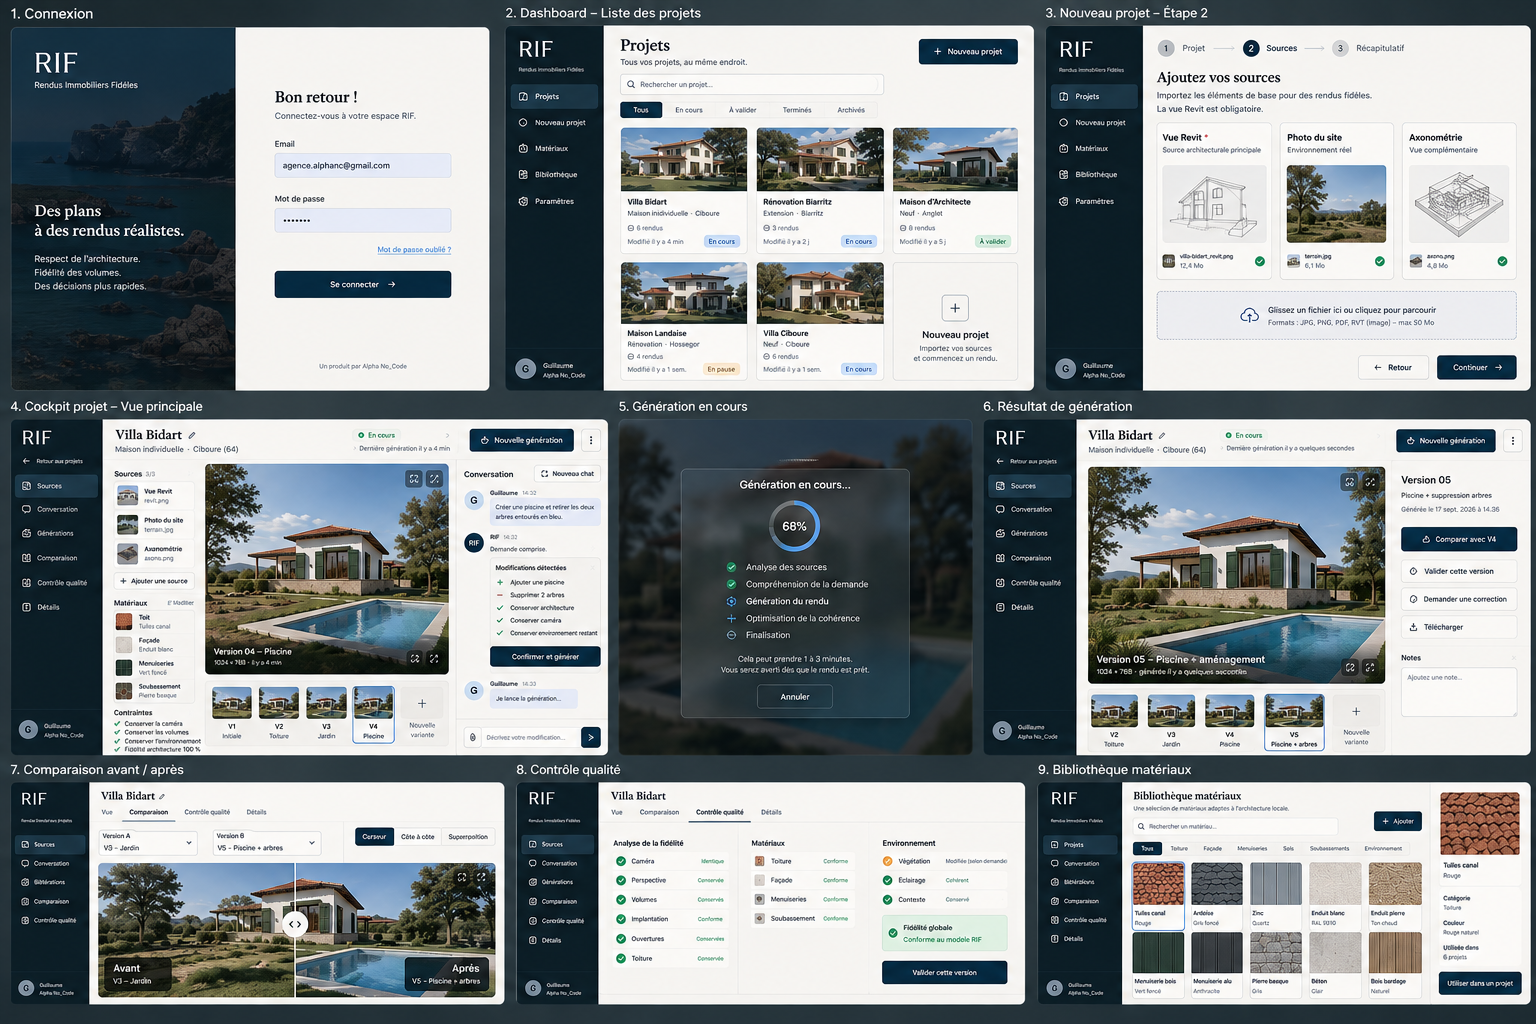
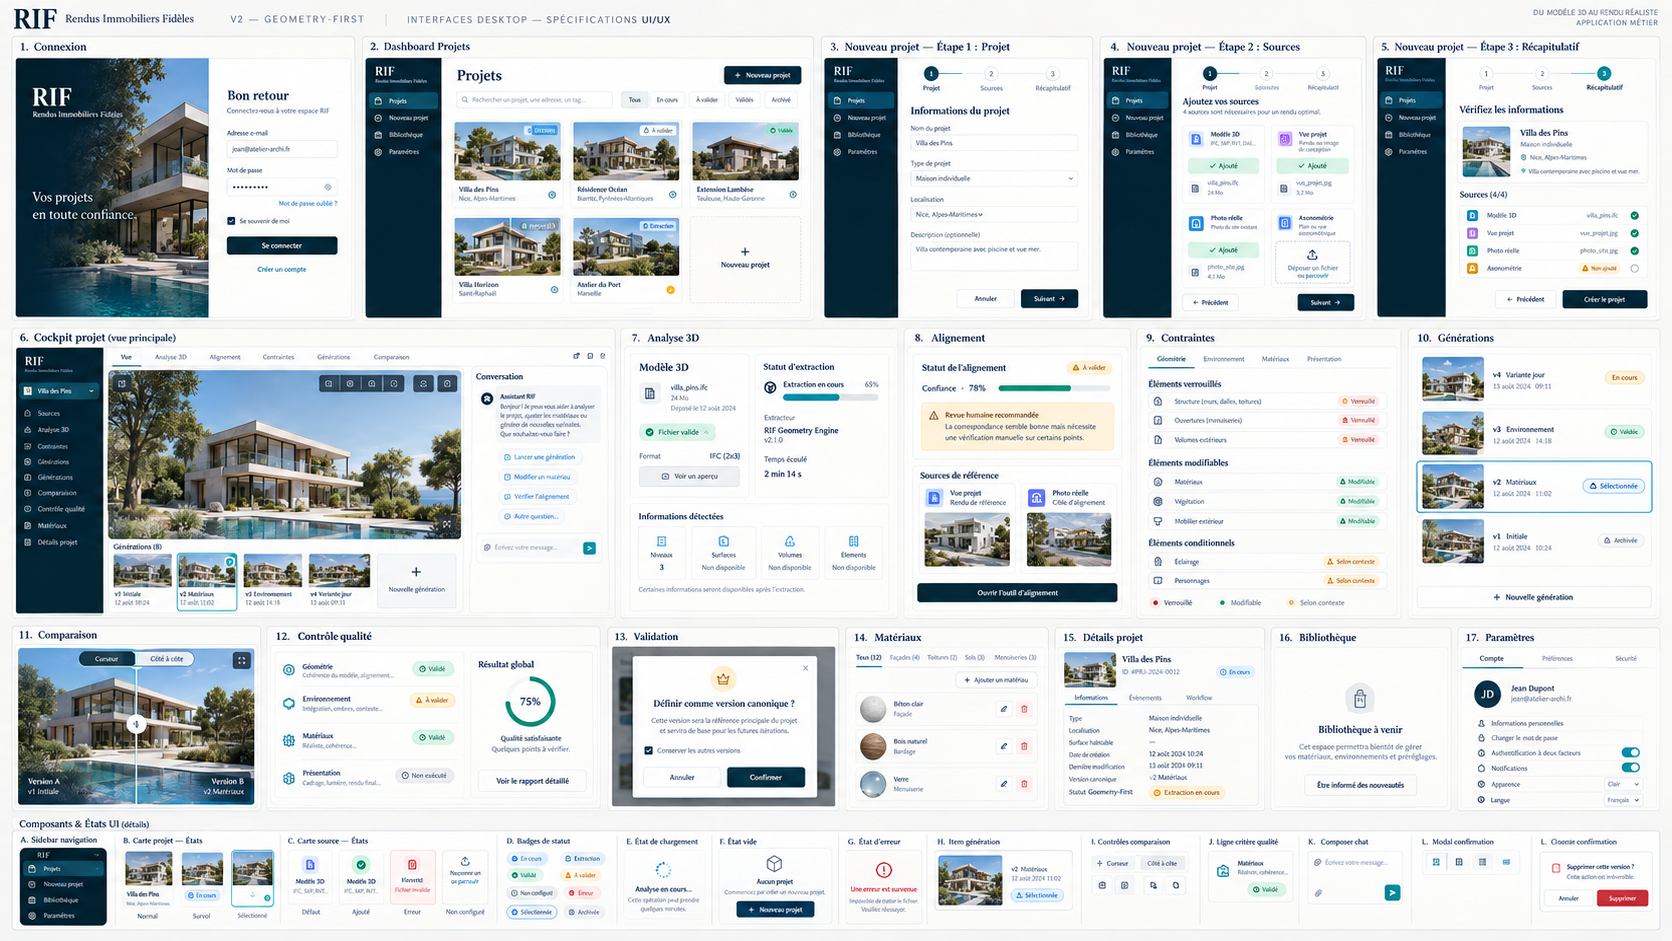
fix(frontend): stabilize login and update RIF UI reference

diff --git a/lib/auth/connexion-page.test.ts b/lib/auth/connexion-page.test.ts
@@ -1,0 +1,109 @@
+import React, { act } from 'react'
+import { createRoot, type Root } from 'react-dom/client'
+import { afterEach, beforeEach, describe, expect, it, vi } from 'vitest'
+
+const { connexionEmail, push, refresh } = vi.hoisted(() => ({
+  connexionEmail: vi.fn(),
+  push: vi.fn(),
+  refresh: vi.fn(),
+}))
+
+vi.mock('@/lib/auth/client', () => ({
+  authClient: { signIn: { email: connexionEmail } },
+}))
+
+vi.mock('next/navigation', () => ({
+  useRouter: () => ({ push, refresh }),
+  useSearchParams: () => new URLSearchParams(),
+}))
+
+import PageConnexion from '@/app/connexion/page'
+
+describe('formulaire de connexion', () => {
+  let conteneur: HTMLDivElement
+  let racine: Root
+
+  beforeEach(async () => {
+    connexionEmail.mockReset()
+    push.mockReset()
+    refresh.mockReset()
+    conteneur = document.createElement('div')
+    document.body.appendChild(conteneur)
+    racine = createRoot(conteneur)
+
+    await act(async () => {
+      racine.render(React.createElement(PageConnexion))
+    })
+  })
+
+  afterEach(async () => {
+    await act(async () => racine.unmount())
+    conteneur.remove()
+  })
+
+  it("réactive le bouton et affiche une erreur quand Neon Auth lève une exception", async () => {
+    connexionEmail.mockRejectedValueOnce(new Error('Invalid email or password'))
+
+    const champs = conteneur.querySelectorAll('input')
+    await act(async () => {
+      changerValeur(champs[0], 'diagnostic@example.invalid')
+      changerValeur(champs[1], 'mot-de-passe-invalide')
+    })
+
+    const formulaire = conteneur.querySelector('form')!
+    await act(async () => {
+      formulaire.dispatchEvent(new Event('submit', { bubbles: true, cancelable: true }))
+    })
+
+    const bouton = conteneur.querySelector('button[type="submit"]') as HTMLButtonElement
+    expect(bouton.disabled).toBe(false)
+    expect(bouton.textContent).toContain('Se connecter')
+    expect(conteneur.querySelector('[role="alert"]')?.textContent).toContain('Identifiants incorrects.')
+    expect(push).not.toHaveBeenCalled()
+  })
+
+  it("affiche aussi l'erreur quand Neon Auth la renvoie dans le résultat", async () => {
+    connexionEmail.mockResolvedValueOnce({ error: { message: 'Invalid email or password' } })
+
+    const champs = conteneur.querySelectorAll('input')
+    await act(async () => {
+      changerValeur(champs[0], 'diagnostic@example.invalid')
+      changerValeur(champs[1], 'mot-de-passe-invalide')
+    })
+
+    await act(async () => {
+      conteneur.querySelector('form')!.dispatchEvent(new Event('submit', { bubbles: true, cancelable: true }))
+    })
+
+    expect(conteneur.querySelector('[role="alert"]')?.textContent).toContain('Identifiants incorrects.')
+    expect(push).not.toHaveBeenCalled()
+  })
+
+  it('redirige vers le tableau de bord quand Neon Auth accepte les identifiants', async () => {
+    connexionEmail.mockResolvedValueOnce({ error: null })
+
+    const champs = conteneur.querySelectorAll('input')
+    await act(async () => {
+      changerValeur(champs[0], 'architecte@example.test')
+      changerValeur(champs[1], 'mot-de-passe-valide')
+    })
+
+    await act(async () => {
+      conteneur.querySelector('form')!.dispatchEvent(new Event('submit', { bubbles: true, cancelable: true }))
+    })
+
+    expect(connexionEmail).toHaveBeenCalledWith({
+      email: 'architecte@example.test',
+      password: 'mot-de-passe-valide',
+    })
+    expect(push).toHaveBeenCalledWith('/')
+    expect(refresh).toHaveBeenCalledOnce()
+  })
+})
+
+function changerValeur(champ: Element, valeur: string) {
+  const setter = Object.getOwnPropertyDescriptor(HTMLInputElement.prototype, 'value')?.set
+  setter?.call(champ, valeur)
+  champ.dispatchEvent(new Event('input', { bubbles: true }))
+  champ.dispatchEvent(new Event('change', { bubbles: true }))
+}

diff --git a/app/connexion/page.tsx b/app/connexion/page.tsx
@@ -33,20 +33,26 @@ function FormulaireConnexion() {
     setErreur(null)
     setEnCours(true)
 
-    const { error } = await authClient.signIn.email({
-      email,
-      password: motDePasse,
-    })
+    try {
+      const { error } = await authClient.signIn.email({
+        email,
+        password: motDePasse,
+      })
 
-    setEnCours(false)
+      if (error) {
+        setErreur('Identifiants incorrects.')
+        return
+      }
 
-    if (error) {
+      router.push(cibleRedirectionSure(parametres.get('redirect')))
+      router.refresh()
+    } catch {
+      // Neon Auth lève notamment AuthApiError pour des identifiants invalides.
+      // Sans capture, le formulaire reste bloqué sur « Connexion… ».
       setErreur('Identifiants incorrects.')
-      return
+    } finally {
+      setEnCours(false)
     }
-
-    router.push(cibleRedirectionSure(parametres.get('redirect')))
-    router.refresh()
   }
 
   return (
